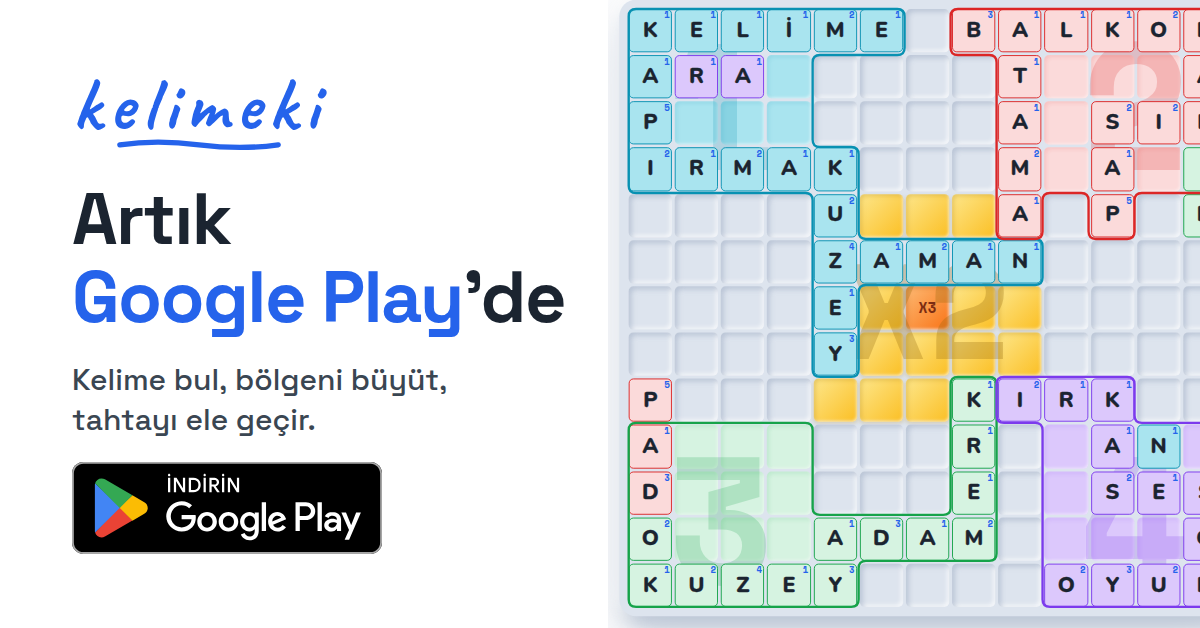
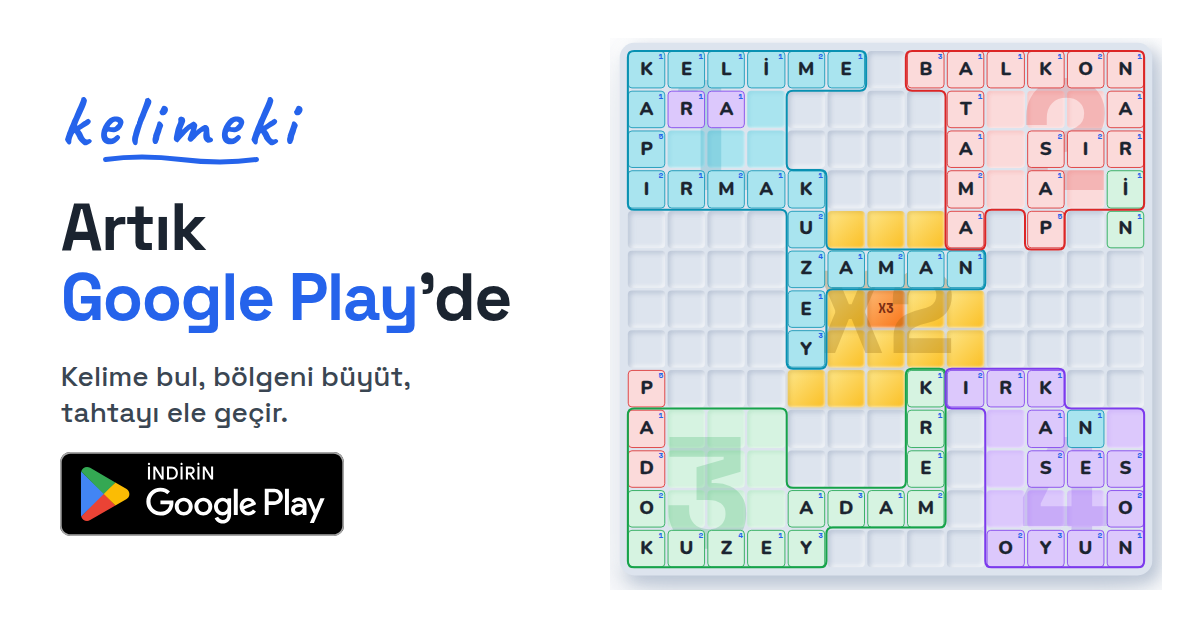
Play lansman görselleri: dikey 720×1280 + yatay 1280×720, link kartında tahta tamamen kadrajda
Claude-Session: https://claude.ai/code/session_01AC9tDnf5uGtCTPF7xatiVe

diff --git a/scripts/play-lansman/gorsel.tsx b/scripts/play-lansman/gorsel.tsx
@@ -23,20 +23,28 @@ const ACCENT = '#2563EB';
 /** Resmî rozetin viewBox oranı (238.96 × 70.87). */
 const ROZET_ORAN = 238.96 / 70.87;
 
-export type Duzen = 'kare' | 'story' | 'link';
+export type Duzen = 'kare' | 'story' | 'dikey' | 'yatay' | 'link';
 
+/** Apple Marketing Tools'un beş boyu (2× çekilince): 1080² · 1080×1920 ·
+ *  720×1280 · 1280×720 · 1200×628. */
 export const OLCULER: Record<Duzen, { w: number; h: number }> = {
   kare: { w: 540, h: 540 },
   story: { w: 540, h: 960 },
+  dikey: { w: 360, h: 640 },
+  yatay: { w: 640, h: 360 },
   link: { w: 600, h: 314 },
 };
+
+/** Yan yana düzenler: solda metin, sağda 4 kişilik tahta TAMAMEN görünür
+ *  (ilk taslakta kenardan taşıyordu — kullanıcı istemedi, 26 Eylül 2026). */
+const YAN: Duzen[] = ['yatay', 'link'];
 
 function Tahta({ tiles, sayi, olcek, stil }: {
   tiles: typeof DEMO_TILES_2; sayi: number; olcek: number; stil: React.CSSProperties;
 }) {
   const kenar = BOARD_BASE_W * olcek;
   return (
-    <div style={{ position: 'absolute', width: kenar, height: kenar, overflow: 'hidden', ...stil }}>
+    <div data-tahta="" style={{ position: 'absolute', width: kenar, height: kenar, overflow: 'hidden', ...stil }}>
       <div style={{ width: BOARD_BASE_W, transform: `scale(${olcek})`, transformOrigin: 'top left' }}>
         <GameBoardPreview
           snapshot={tiles}
@@ -53,12 +61,18 @@ function Tahta({ tiles, sayi, olcek, stil }: {
 const OLCU = {
   kare: { ikon: 136, logo: 0, baslik: 46, alt: 20, rozet: 60, dip: 13, bosluk: 20 },
   story: { ikon: 168, logo: 0, baslik: 56, alt: 23, rozet: 68, dip: 14, bosluk: 26 },
-  link: { ikon: 0, logo: 42, baslik: 36, alt: 15, rozet: 46, dip: 11, bosluk: 12 },
+  dikey: { ikon: 112, logo: 0, baslik: 37, alt: 16, rozet: 46, dip: 10, bosluk: 17 },
+  yatay: { ikon: 0, logo: 46, baslik: 34, alt: 16, rozet: 50, dip: 11, bosluk: 14 },
+  link: { ikon: 0, logo: 40, baslik: 33, alt: 14, rozet: 42, dip: 11, bosluk: 11 },
 } as const;
 
 function Gorsel({ duzen, ikonSrc, rozetSrc }: { duzen: Duzen; ikonSrc: string; rozetSrc: string }) {
   const { w, h } = OLCULER[duzen];
   const o = OLCU[duzen];
+  const yan = YAN.includes(duzen);
+  // Yan düzende tahta sağda, dört kenardan eşit payla tamamen kadrajda.
+  const pay = Math.round(h * 0.06);
+  const tahtaKenar = h - 2 * pay;
   const rozet = (
     <img src={rozetSrc} alt="Google Play'den alın" style={{ height: o.rozet, width: o.rozet * ROZET_ORAN, display: 'block' }} />
   );
@@ -90,17 +104,21 @@ function Gorsel({ duzen, ikonSrc, rozetSrc }: { duzen: Duzen; ikonSrc: string; r
         <Tahta tiles={DEMO_TILES_2} sayi={2} olcek={0.78} stil={{ left: -160, top: -120, opacity: 0.35 }} />
         <Tahta tiles={DEMO_TILES_4} sayi={4} olcek={0.78} stil={{ right: -160, bottom: -120, opacity: 0.35 }} />
       </>)}
-      {duzen === 'link' && (
-        <Tahta tiles={DEMO_TILES_4} sayi={4} olcek={0.47} stil={{ right: -24, top: -3, opacity: 1 }} />
+      {duzen === 'dikey' && (<>
+        <Tahta tiles={DEMO_TILES_2} sayi={2} olcek={0.52} stil={{ left: -110, top: -80, opacity: 0.35 }} />
+        <Tahta tiles={DEMO_TILES_4} sayi={4} olcek={0.52} stil={{ right: -150, bottom: -125, opacity: 0.35 }} />
+      </>)}
+      {yan && (
+        <Tahta tiles={DEMO_TILES_4} sayi={4} olcek={tahtaKenar / BOARD_BASE_W} stil={{ right: pay, top: pay, opacity: 1 }} />
       )}
 
-      {duzen !== 'link' && (
+      {!yan && (
         <div style={{ position: 'absolute', inset: 0, background:
           `radial-gradient(ellipse ${w * 0.7}px ${h * 0.42}px at 50% 50%, rgba(255,255,255,0.98) 68%, rgba(255,255,255,0) 100%)` }} />
       )}
 
-      {duzen === 'link' ? (
-        <div style={{ position: 'absolute', left: 36, top: 0, bottom: 0, width: 260, display: 'flex', alignItems: 'center' }}>
+      {yan ? (
+        <div style={{ position: 'absolute', left: pay * 1.6, top: 0, bottom: 0, width: w - tahtaKenar - pay * 3.2, display: 'flex', alignItems: 'center' }}>
           <div data-guvenli-kutu="" style={{ display: 'flex', flexDirection: 'column', gap: o.bosluk }}>
             <LandingLogo height={o.logo} />
             {baslik}

diff --git a/docs/decisions/marketing-assets.md b/docs/decisions/marketing-assets.md
@@ -263,8 +263,9 @@ cevabını veriyor.
 ## "Artık Google Play'de" lansman görselleri (`scripts/play-lansman/`, 26 Eylül 2026)
 
 `npm run build && npm run generate-play-lansman` →
-`marketing/play-store/lansman/` altında üç kare: kare 1080×1080 (IG/FB
-feed), story 1080×1920, link kartı 1200×628 (LinkedIn/FB).
+`marketing/play-store/lansman/` altında Apple setinin beş boyu: kare
+1080×1080 (IG/FB feed), story 1080×1920, dikey 720×1280, yatay 1280×720,
+link kartı 1200×628 (LinkedIn/FB).
 
 **Neden elle üretiliyor:** App Store lansmanında görseller Apple Marketing
 Tools'tan HAZIR geldi (`marketing/app-store/instagram-lansman.md`). Google'ın
@@ -278,3 +279,7 @@ yalnızca "Device art generator" ve "Legal line generator" var.
   "kelimeki" yazısını taşıdığı için kare/story'de ayrıca logo YOK.
 - Story'de içerik Instagram'ın bindirme bantlarının (üst ~%14, alt ~%20)
   dışında kalmak zorunda; betik ölçer, taşarsa dosya yazmadan düşer.
+- Yatay ve link kartında 4 kişilik tahta TAMAMEN kadrajda (ilk taslakta
+  kenardan taşıyordu, kullanıcı istemedi); betik tahtanın kadrajda
+  kaldığını ve metnin ona binmediğini ölçer. Kare/story/dikeydeki silik
+  arka plan tahtaları ise bilerek kenardan taşan dekor.
